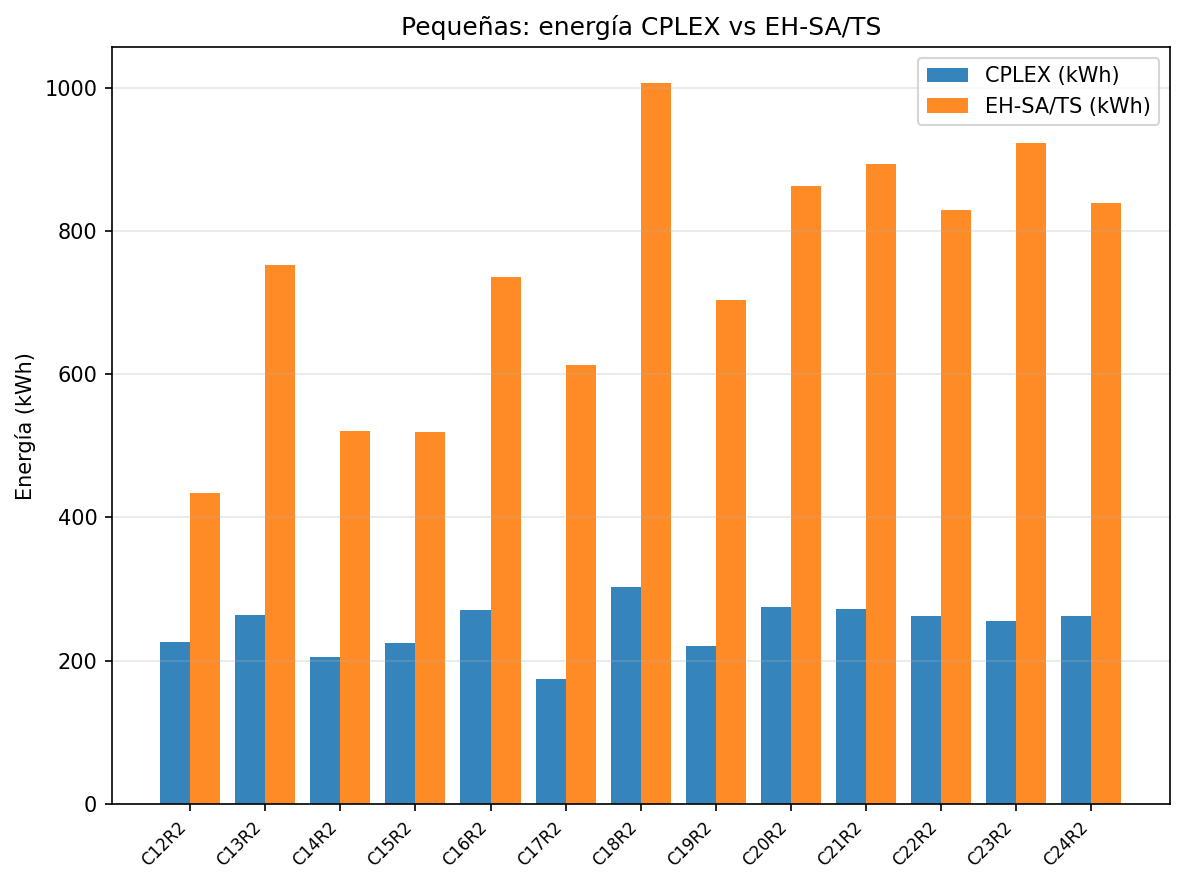
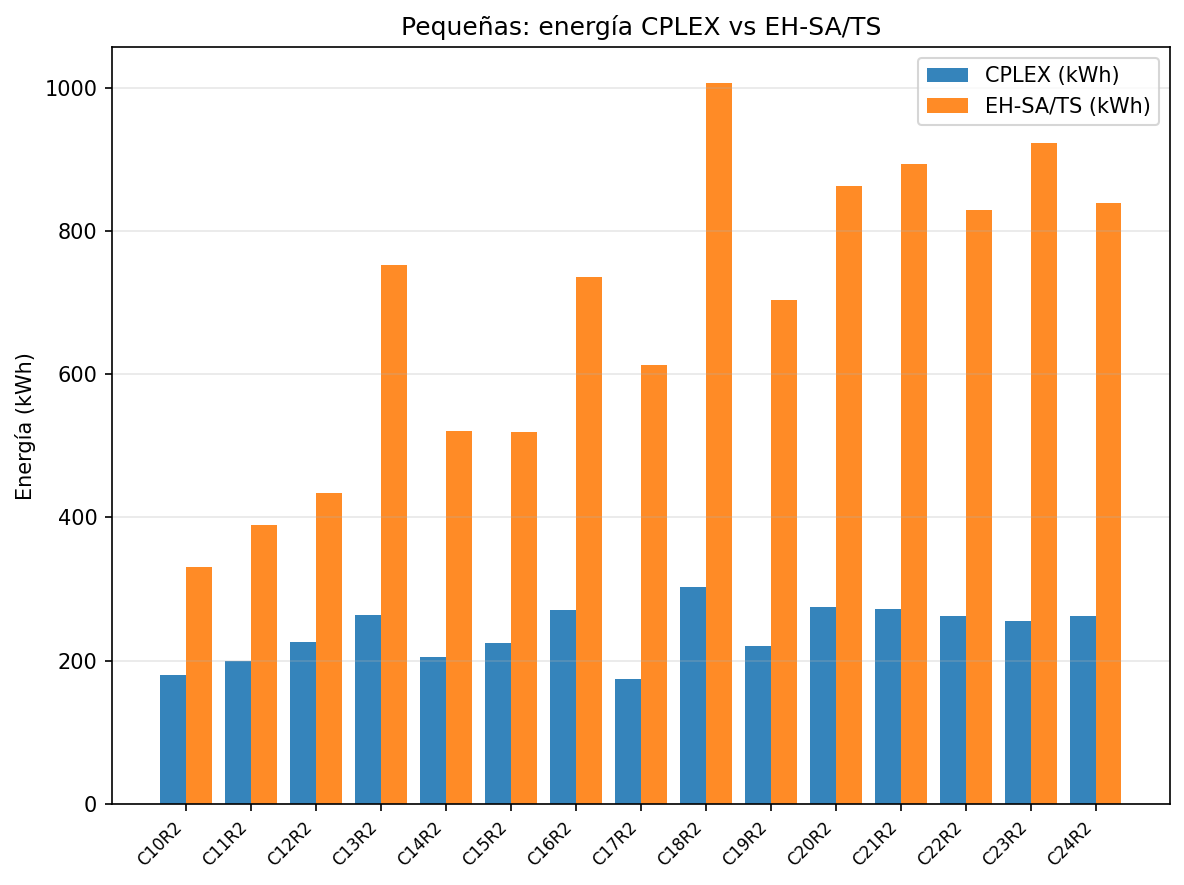
Update small instance range and enhance documentation
- Adjusted the range of small instances from C12R2-C24R2 to C10R2-C24R2 in main.py and related scripts.
- Updated README.md to reflect the new instance range and clarify the inclusion of C10R2 and C11R2 in the small mode.
- Modified logging outputs in run_001_small.txt and run_001_small_cplex.txt to align with the updated instance range.
- Added new map files for C10R2 and C11R2 to the statistics directory for enhanced visualization of results.

Changed region(s): [[0.125, 0.0915, 0.9375, 0.9763]]

diff --git a/project/main.py b/project/main.py
@@ -52,8 +52,8 @@ LARGE_NUM_RUNS_DEFAULT = 10
 
 BATTERY_RESERVE_LEVELS = {"0%": 0.0, "10%": 10.0, "20%": 20.0}
 
-SMALL_INSTANCES = [f"C{n}R2" for n in range(12, 25)]
-SMALL_INSTANCES_EXTENDED = [f"C{n}R2" for n in range(10, 25)]
+SMALL_INSTANCES = [f"C{n}R2" for n in range(10, 25)]
+SMALL_INSTANCES_EXTENDED = SMALL_INSTANCES
 SMALL_INSTANCES_OWN = [f"C{n}R2" for n in range(10, 12)]
 LARGE_INSTANCES = []
 for _n in (25, 50, 75, 100, 150):
@@ -2150,7 +2150,7 @@ def _large_run_seeds(base_seed: int, num_runs: int) -> list[int]:
 
 def run_small_benchmark(seed: int = 42) -> list[dict]:
     print("\n" + "=" * 80)
-    print("MODO -small | INSTANCIAS PEQUEÑAS (C12R2-C24R2)")
+    print("MODO -small | INSTANCIAS PEQUEÑAS (C10R2-C24R2)")
     print(
         "EH-SA/TS (referencia solver MIP: solve_cplex.py → logs/run_NNN_small_cplex.txt)"
     )
@@ -2831,7 +2831,7 @@ def print_execution_modes_summary() -> None:
     """Resumen de modos (también en docstring del módulo)."""
     print("Modos de ejecución:")
     print("  python main.py -small")
-    print("    EH-SA/TS en C12R2-C24R2. Log: logs/run_NNN_small.txt")
+    print("    EH-SA/TS en C10R2-C24R2 (15 inst.). Log: logs/run_NNN_small.txt")
     print("    Referencia CPLEX: solve_cplex.py → logs/run_NNN_small_cplex.txt")
     print("    Gráficos instancias small: python stats_small.py [NNN] → stats/small/")
     print("")
@@ -2881,7 +2881,7 @@ def _execute_mode(
 
     if mode == "all":
         print("\nPipeline -all:")
-        print("  1) -small          EH-SA/TS (C12R2-C24R2)")
+        print("  1) -small          EH-SA/TS (C10R2-C24R2)")
         print("  2) -large          Multi-run EH-SA/TS + RPD vs B*")
         print("  3) recharge-stations")
         print("  4) battery-reserve")

diff --git a/project/solve_cplex.py b/project/solve_cplex.py
@@ -30,7 +30,7 @@ LARGE_DAT_DIR = INSTANCES_DIR / "large_dat"
 LOG_SLUG = "small_cplex"
 MAX_STATION_COPIES = 3
 
-DEFAULT_INSTANCES = [f"C{n}R2" for n in range(12, 25)]
+DEFAULT_INSTANCES = [f"C{n}R2" for n in range(10, 25)]
 CPLEX_MIP_GAP = 0.0001
 
 

diff --git a/project/README.md b/project/README.md
@@ -370,7 +370,7 @@ Salida en consola (y en `logs/run_NNN_single_C25R2-1.txt`): energía EH-SA/TS (k
 
 También aceptan forma sin guión (`small`, `large`, `all`) o con guión (`-recharge-stations`, etc.).
 
-Modos auxiliares (no entran en `-all`): `extended` (C10R2, C11R2) y `bank` (55 instancias, solo EH-SA/TS).
+Modos auxiliares (no entran en `-all`): `extended` (C10R2 y C11R2; forman parte de `-small`) y `bank` (55 instancias, solo EH-SA/TS).
 
 ### Referencia CPLEX (AMPL)
 
@@ -388,7 +388,7 @@ python -m pip install amplpy --upgrade
 python -m amplpy.modules install cplex
 ```
 
-Licencia AMPL (necesaria para ejecutar solvers). Obtén una en [ampl.com/ce](https://portal.ampl.com/external/?url=https://ampl.com/ce) o [ampl.com/courses](https://portal.ampl.com/external/?url=https://ampl.com/courses); el portal te entrega un **UUID de activación** (no lo subas al repositorio).
+Licencia AMPL (necesaria para ejecutar solvers). Se obtiene en [ampl.com/ce](https://portal.ampl.com/external/?url=https://ampl.com/ce) o [ampl.com/courses](https://portal.ampl.com/external/?url=https://ampl.com/courses); el portal entrega un **UUID de activación**.
 
 ```bash
 # Sustituye <TU-UUID-LICENCIA> por el código que te da AMPL
@@ -401,7 +401,7 @@ Comprobar que AMPL y la licencia responden:
 python -c "from amplpy import AMPL; ampl = AMPL(); print('AMPL OK')"
 ```
 
-`requirements.txt` ya incluye `amplpy`; con `pip install -r requirements.txt` instalas la API, pero **CPLEX y la licencia** se configuran con los comandos `amplpy.modules` de arriba.
+`requirements.txt` ya incluye `amplpy`; con `pip install -r requirements.txt` se instala la API, pero **CPLEX y la licencia** se configuran con los comandos `amplpy.modules` de arriba.
 
 #### Uso en este proyecto
 
@@ -420,7 +420,7 @@ python solve_cplex.py C12R2 C14R2
 | `logs/run_NNN_small_cplex.txt`     | Traza y resumen CPLEX (numeración automática) |
 | `logs/run_NNN_<modo>.txt`          | Traza EH-SA/TS                                |
 
-CPLEX: sin límite de tiempo; `mipgap=0.0001` (0,01 %).
+CPLEX: sin límite de tiempo; `mipgap=0.0001` (0,01 %). Por defecto, `solve_cplex.py` resuelve **C10R2–C24R2** (15 instancias).
 
 ### Opciones
 
@@ -439,16 +439,16 @@ En `-large`, las semillas son `base_seed + i × 9973` para `i = 0 … N-1` (repr
 Las métricas siguen la notación de Zhang et al. (2018).
 
 - **Pequeñas:** `main.py -small` solo ejecuta **EH-SA/TS** (`logs/run_NNN_small.txt`). La referencia MIP óptima es **CPLEX** vía `solve_cplex.py` (`logs/run_NNN_small_cplex.txt`). El análisis comparativo (p. ej. Absolute Gap) se hace cruzando ambos logs.
-- **Grandes:** solo **EH-SA/TS** con varias corridas; el RPD se calcula **entre runs del mismo algoritmo**, no frente a AC/ALNS del paper.
+- **Grandes:** solo **EH-SA/TS** con varias corridas (runs); el RPD se calcula **entre runs del mismo algoritmo**.
 
 ### Instancias pequeñas (`-small`)
 
-**Qué se ejecuta:** las 13 instancias `C12R2` … `C24R2` con EH-SA/TS únicamente.
+**Qué se ejecuta:** las 15 instancias `C10R2` … `C24R2` con EH-SA/TS únicamente (incluye las dos primeras del banco pequeño del paper).
 
 **Log EH-SA/TS** (`logs/run_NNN_small.txt`):
 
 - Energía EH-SA/TS (kWh), tiempo, rutas, visitas a estaciones, o **`INFACTIBLE`** con diagnóstico (clientes faltantes, violaciones).
-- Resumen al final (`--- Resumen (modo -small) ---`) y `EH factibles: X/13`.
+- Resumen al final (`--- Resumen (modo -small) ---`) y `EH factibles: X/15`.
 
 **Log referencia CPLEX** (`logs/run_NNN_small_cplex.txt`, script aparte):
 